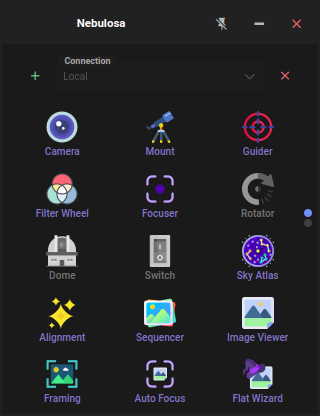
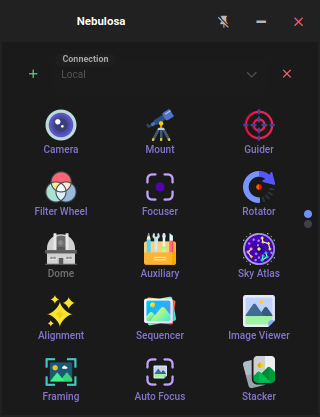
[desktop]: Add auxiliary button to Home

diff --git a/desktop/src/app/home/home.component.html b/desktop/src/app/home/home.component.html
@@ -175,32 +175,44 @@
 		<div class="col-4 p-1">
 			<p-button
 				[text]="true"
-				[disabled]="!connected || !hasSwitch"
+				[disabled]="!connected || !hasAuxiliary"
+				(onClick)="toggleAuxiliary()"
 				styleClass="min-w-full w-full px-1 py-2 flex-column">
-				<img src="assets/icons/switch.png" />
-				<div class="mt-1 text-sm">Switch</div>
+				<img src="assets/icons/toolkit.png" />
+				<div class="mt-1 text-sm">Auxiliary</div>
 			</p-button>
 		</div>
-		<div class="col-4 p-1">
-			<p-button
-				[text]="true"
-				[disabled]="!connected || !hasLightBox"
-				(onClick)="open('LIGHT_BOX')"
-				styleClass="min-w-full w-full px-1 py-2 flex-column">
-				<img src="assets/icons/light.png" />
-				<div class="mt-1 text-sm">Light Box</div>
-			</p-button>
-		</div>
-		<div class="col-4 p-1">
-			<p-button
-				[text]="true"
-				[disabled]="!connected || !hasDustCap"
-				(onClick)="open('DUST_CAP')"
-				styleClass="min-w-full w-full px-1 py-2 flex-column">
-				<img src="assets/icons/lid.png" />
-				<div class="mt-1 text-sm">Dust Cap</div>
-			</p-button>
-		</div>
+		@if (preference.showAuxiliary && hasAuxiliary) {
+			<div class="col-4 p-1">
+				<p-button
+					[text]="true"
+					[disabled]="!connected || !hasSwitch"
+					styleClass="min-w-full w-full px-1 py-2 flex-column">
+					<img src="assets/icons/switch.png" />
+					<div class="mt-1 text-sm">Switch</div>
+				</p-button>
+			</div>
+			<div class="col-4 p-1">
+				<p-button
+					[text]="true"
+					[disabled]="!connected || !hasLightBox"
+					(onClick)="open('LIGHT_BOX')"
+					styleClass="min-w-full w-full px-1 py-2 flex-column">
+					<img src="assets/icons/light.png" />
+					<div class="mt-1 text-sm">Light Box</div>
+				</p-button>
+			</div>
+			<div class="col-4 p-1">
+				<p-button
+					[text]="true"
+					[disabled]="!connected || !hasDustCap"
+					(onClick)="open('DUST_CAP')"
+					styleClass="min-w-full w-full px-1 py-2 flex-column">
+					<img src="assets/icons/lid.png" />
+					<div class="mt-1 text-sm">Dust Cap</div>
+				</p-button>
+			</div>
+		}
 		<div class="col-4 p-1">
 			<p-button
 				[text]="true"

diff --git a/desktop/src/app/home/home.component.ts b/desktop/src/app/home/home.component.ts
@@ -106,10 +106,6 @@ export class HomeComponent implements AfterContentInit {
 		return this.domes.length > 0
 	}
 
-	get hasSwitch() {
-		return this.switches.length > 0
-	}
-
 	get hasRotator() {
 		return this.rotators.length > 0
 	}
@@ -118,12 +114,20 @@ export class HomeComponent implements AfterContentInit {
 		return this.guideOutputs.length > 0
 	}
 
+	get hasSwitch() {
+		return this.switches.length > 0
+	}
+
 	get hasLightBox() {
 		return this.lightBoxes.length > 0
 	}
 
 	get hasDustCap() {
 		return this.dustCaps.length > 0
+	}
+
+	get hasAuxiliary() {
+		return this.hasSwitch || this.hasLightBox || this.hasDustCap
 	}
 
 	get hasGuider() {
@@ -491,6 +495,11 @@ export class HomeComponent implements AfterContentInit {
 
 	protected deviceDisconnected(event: DeviceConnectionCommandEvent) {
 		return DeviceChooserComponent.handleDisconnectDevice(this.api, event.device, event.item)
+	}
+
+	protected toggleAuxiliary() {
+		this.preference.showAuxiliary = !this.preference.showAuxiliary
+		this.savePreference()
 	}
 
 	private async openDevice(type: DeviceType) {

diff --git a/desktop/src/app/about/about.component.ts b/desktop/src/app/about/about.component.ts
@@ -49,6 +49,7 @@ export class AboutComponent {
 		this.icons.push({ link: `${FLAT_ICON_URL}/calibration_2364169`, name: 'Calibration', author: 'Freepik - Flaticon' })
 		this.icons.push({ link: `${FLAT_ICON_URL}/idea_3351801`, name: 'Bulb', author: 'Good Ware - Flaticon' })
 		this.icons.push({ link: `${FLAT_ICON_URL}/lid_7558659`, name: 'Lid', author: 'Nikita Golubev - Flaticon' })
+		this.icons.push({ link: `${FLAT_ICON_URL}/toolkit_4229807`, name: 'Toolkit', author: 'Freepik - Flaticon' })
 	}
 
 	private mapDependencies() {

diff --git a/desktop/src/shared/types/home.types.ts b/desktop/src/shared/types/home.types.ts
@@ -24,6 +24,7 @@ export interface ConnectionClosed {
 export interface HomePreference {
 	connections: ConnectionDetails[]
 	imagePath?: string
+	showAuxiliary: boolean
 }
 
 export interface HomeConnectionDialog {
@@ -52,6 +53,7 @@ export const DEFAULT_CONNECTION_DETAILS: ConnectionDetails = {
 
 export const DEFAULT_HOME_PREFERENCE: HomePreference = {
 	connections: [],
+	showAuxiliary: false,
 }
 
 export const DEFAULT_HOME_CONNECTION_DIALOG: HomeConnectionDialog = {
